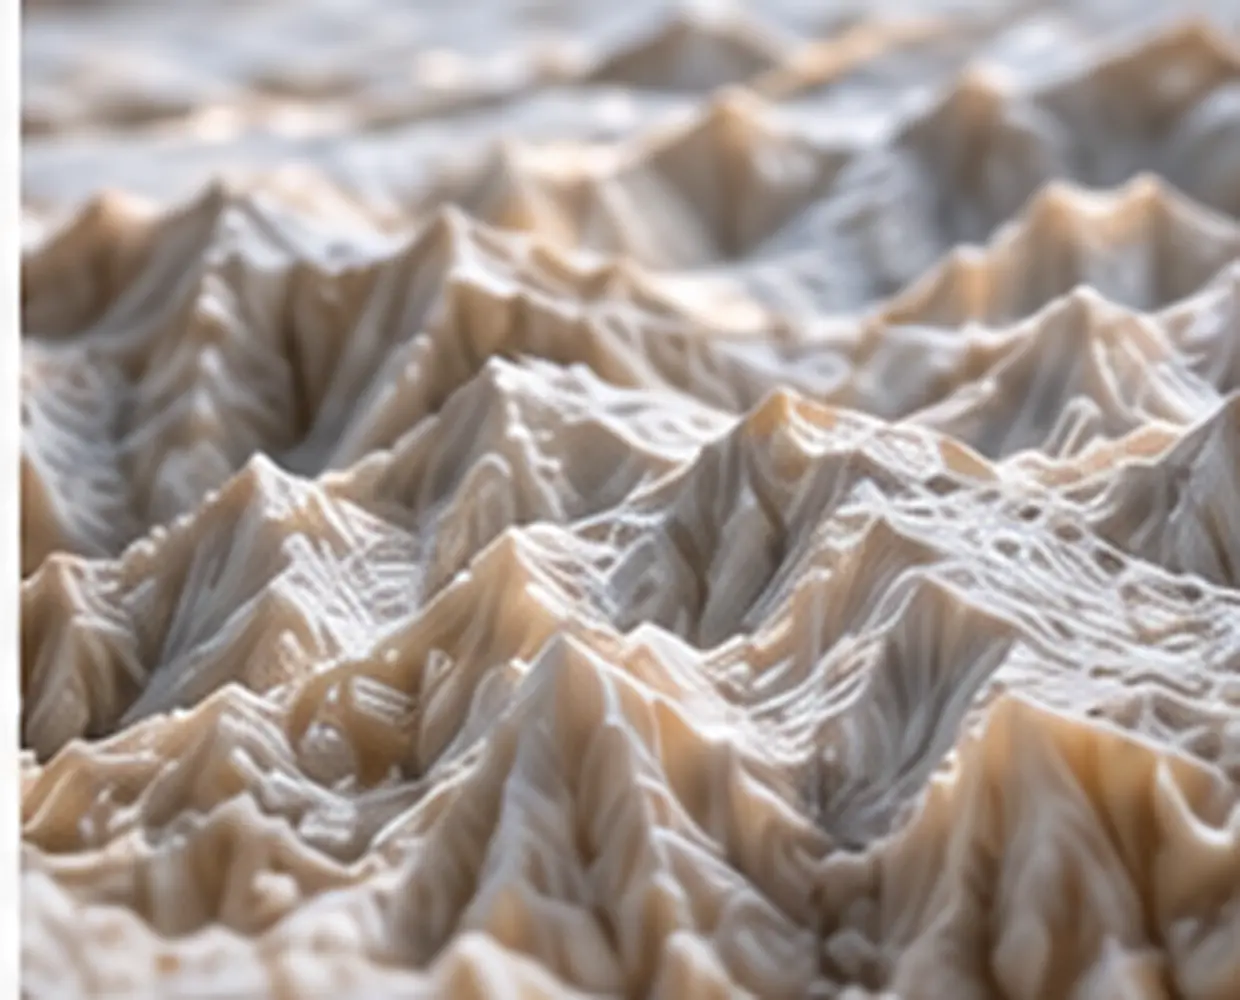
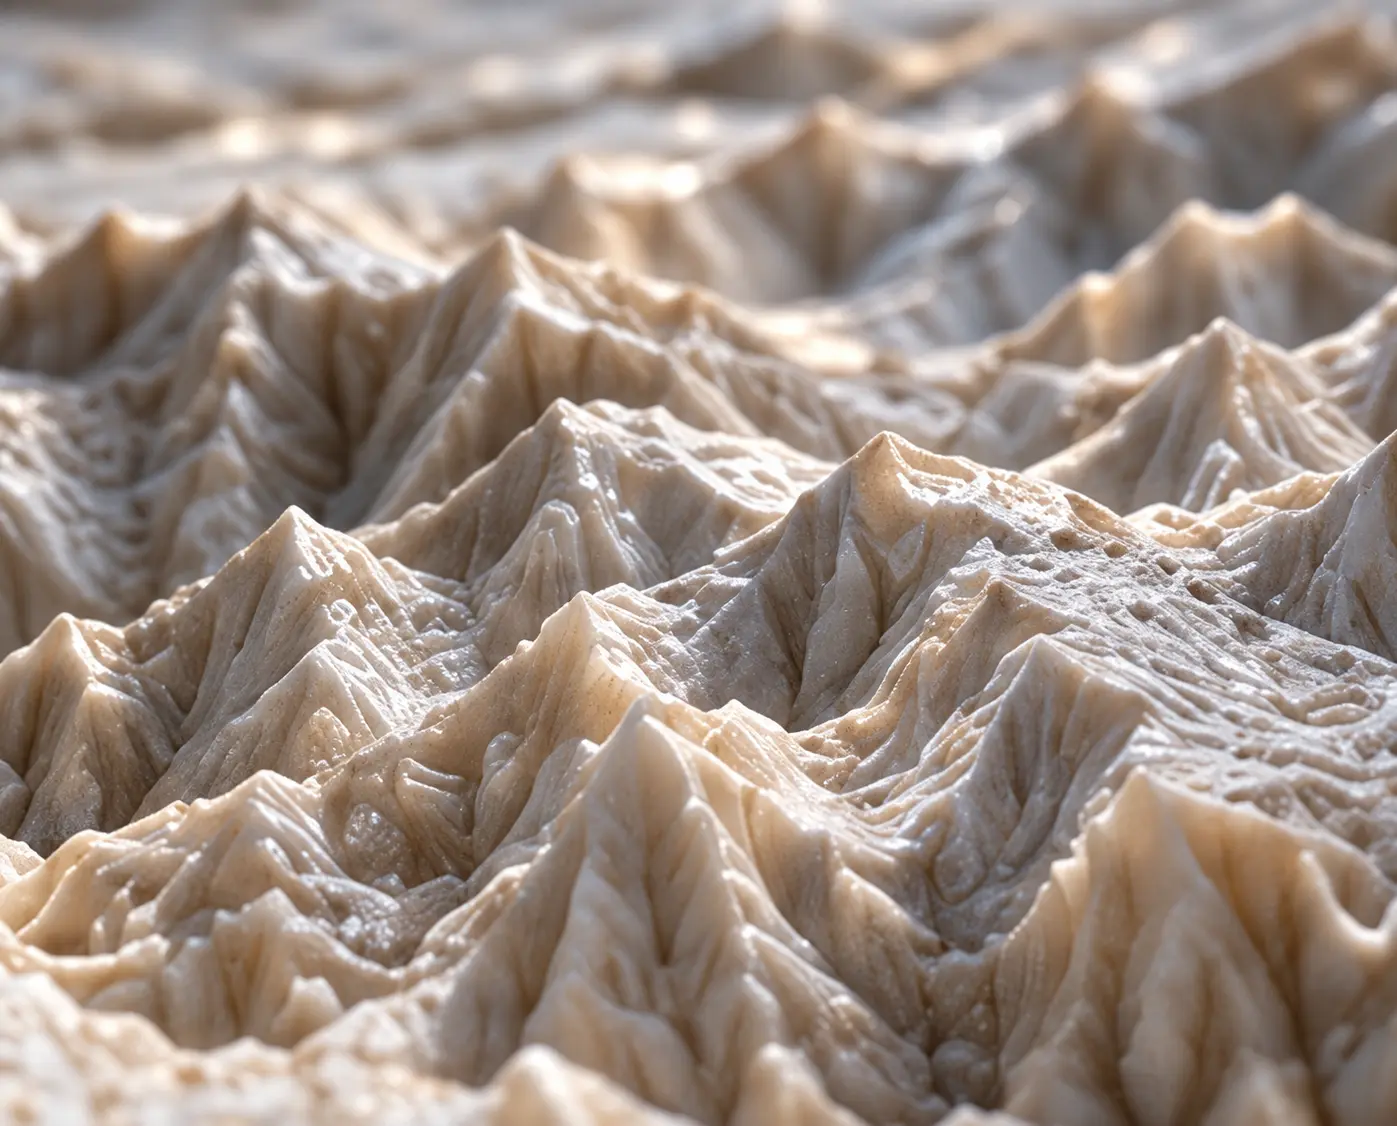
Recréer les visuels stratégiques en HD plein cadre

diff --git a/strategy/index.html b/strategy/index.html
@@ -5,7 +5,7 @@
   <meta name="viewport" content="width=device-width,initial-scale=1">
   <meta name="description" content="Atelier Signature — socle de marque et modèle économique V3.5.">
   <title>Atelier Signature — Stratégie V3.5</title>
-  <link rel="stylesheet" href="styles.css?v=5">
+  <link rel="stylesheet" href="styles.css?v=6">
   <script src="script.js?v=2" defer></script>
 </head>
 <body>
@@ -100,11 +100,11 @@
           <div class="accent-block"><p class="micro">Atelier Signature</p><p>Savoir-faire → Possibilités → Rencontre → Conception → Production → Réalisation</p></div>
         </div>
         <div class="editorial-grid editorial-grid-five" aria-label="Matières et savoir-faire">
-          <figure><img src="assets/editorial/image-01.webp" alt="Bloc d’albâtre suisse brut dans un atelier"><figcaption><b>01</b><span>Matière brute<em>Bloc d’albâtre suisse</em></span></figcaption></figure>
-          <figure><img src="assets/editorial/image-03.webp" alt="Usinage CNC d’un relief minéral"><figcaption><b>02</b><span>Usinage CNC<em>Sculpture du relief</em></span></figcaption></figure>
-          <figure><img src="assets/editorial/image-04.webp" alt="Relief minéral en cours de fabrication"><figcaption><b>03</b><span>Relief en cours<em>Naissance du territoire</em></span></figcaption></figure>
-          <figure><img src="assets/editorial/image-05.webp" alt="Échantillons de pierre, métal et bois"><figcaption><b>04</b><span>Matières complémentaires<em>Pierre, métal et bois</em></span></figcaption></figure>
-          <figure><img src="assets/editorial/image-06.webp" alt="Verre et textile traversés par la lumière"><figcaption><b>05</b><span>Verre et textile<em>Lumière et matière</em></span></figcaption></figure>
+          <figure><img srcset="assets/editorial/image-01-720.webp 720w, assets/editorial/image-01.webp 1397w" sizes="(max-width: 760px) 100vw, 34vw" src="assets/editorial/image-01.webp" alt="Bloc d’albâtre suisse brut dans un atelier"><figcaption><b>01</b><span>Matière brute<em>Bloc d’albâtre suisse</em></span></figcaption></figure>
+          <figure><img srcset="assets/editorial/image-03-720.webp 720w, assets/editorial/image-03.webp 1397w" sizes="(max-width: 760px) 100vw, 34vw" src="assets/editorial/image-03.webp" alt="Usinage CNC d’un relief minéral"><figcaption><b>02</b><span>Usinage CNC<em>Sculpture du relief</em></span></figcaption></figure>
+          <figure><img srcset="assets/editorial/image-04-720.webp 720w, assets/editorial/image-04.webp 1397w" sizes="(max-width: 760px) 100vw, 34vw" src="assets/editorial/image-04.webp" alt="Relief minéral en cours de fabrication"><figcaption><b>03</b><span>Relief en cours<em>Naissance du territoire</em></span></figcaption></figure>
+          <figure><img srcset="assets/editorial/image-05-720.webp 720w, assets/editorial/image-05.webp 1397w" sizes="(max-width: 760px) 100vw, 34vw" src="assets/editorial/image-05.webp" alt="Échantillons de pierre, métal et bois"><figcaption><b>04</b><span>Matières complémentaires<em>Pierre, métal et bois</em></span></figcaption></figure>
+          <figure><img srcset="assets/editorial/image-06-720.webp 720w, assets/editorial/image-06.webp 1397w" sizes="(max-width: 760px) 100vw, 34vw" src="assets/editorial/image-06.webp" alt="Verre et textile traversés par la lumière"><figcaption><b>05</b><span>Verre et textile<em>Lumière et matière</em></span></figcaption></figure>
         </div>
       </article>
 
@@ -127,10 +127,10 @@
         <div class="chapter-copy"><p>Un projet peut commencer par un brief client, une matière, une technique, une opportunité, un artisan ou une intuition. La spécificité AS : le savoir-faire entre assez tôt pour transformer le projet.</p></div>
         <blockquote><span>Le test AS</span>Cet objet aurait-il été différent sans la rencontre avec ce savoir-faire ? Peut-on identifier ce que chaque contributeur a apporté ?</blockquote>
         <div class="editorial-grid editorial-grid-four" aria-label="Méthode de création Atelier Signature">
-          <figure><img src="assets/editorial/image-07.webp" alt="Table de co-conception avec plans et échantillons"><figcaption><b>01</b><span>Co-conception<em>Dialogue et idées</em></span></figcaption></figure>
-          <figure><img src="assets/editorial/image-08.webp" alt="Cartes et échantillons de la Collection 01"><figcaption><b>02</b><span>Collection 01<em>Du territoire à l’objet</em></span></figcaption></figure>
-          <figure><img src="assets/editorial/image-09.webp" alt="Prototype de table en pierre en cours de mise au point"><figcaption><b>03</b><span>Prototype<em>Ajustements et mise au point</em></span></figcaption></figure>
-          <figure><img src="assets/editorial/image-10.webp" alt="Table Atelier Signature finalisée"><figcaption><b>04</b><span>Pièce finale<em>Table AS-001</em></span></figcaption></figure>
+          <figure><img srcset="assets/editorial/image-07-720.webp 720w, assets/editorial/image-07.webp 1397w" sizes="(max-width: 760px) 100vw, 34vw" src="assets/editorial/image-07.webp" alt="Table de co-conception avec plans et échantillons"><figcaption><b>01</b><span>Co-conception<em>Dialogue et idées</em></span></figcaption></figure>
+          <figure><img srcset="assets/editorial/image-08-720.webp 720w, assets/editorial/image-08.webp 1397w" sizes="(max-width: 760px) 100vw, 34vw" src="assets/editorial/image-08.webp" alt="Cartes et échantillons de la Collection 01"><figcaption><b>02</b><span>Collection 01<em>Du territoire à l’objet</em></span></figcaption></figure>
+          <figure><img srcset="assets/editorial/image-09-720.webp 720w, assets/editorial/image-09.webp 1397w" sizes="(max-width: 760px) 100vw, 34vw" src="assets/editorial/image-09.webp" alt="Prototype de table en pierre en cours de mise au point"><figcaption><b>03</b><span>Prototype<em>Ajustements et mise au point</em></span></figcaption></figure>
+          <figure><img srcset="assets/editorial/image-10-720.webp 720w, assets/editorial/image-10.webp 1397w" sizes="(max-width: 760px) 100vw, 34vw" src="assets/editorial/image-10.webp" alt="Table Atelier Signature finalisée"><figcaption><b>04</b><span>Pièce finale<em>Table AS-001</em></span></figcaption></figure>
         </div>
       </article>
 
@@ -158,10 +158,10 @@
         <header><span>07</span><p>Échelle</p><h3>De l’objet à l’espace.</h3></header>
         <div class="scale-list"><span>Objet</span><span>Mobilier</span><span>Scénographie</span><span>Espaces commerciaux</span><span>Hôtellerie</span><span>Environnement complet</span></div>
         <div class="editorial-grid editorial-grid-four" aria-label="Échelles d’intervention Atelier Signature">
-          <figure><img src="assets/editorial/image-19.webp" alt="Table Atelier Signature dans un intérieur"><figcaption><b>01</b><span>Objet en situation<em>Élégance au quotidien</em></span></figcaption></figure>
-          <figure><img src="assets/editorial/image-20.webp" alt="Présentation scénographique d’une pièce Atelier Signature"><figcaption><b>02</b><span>Scénographie<em>Mise en valeur</em></span></figcaption></figure>
-          <figure><img src="assets/editorial/image-21.webp" alt="Table Atelier Signature dans un espace hôtelier"><figcaption><b>03</b><span>Hôtellerie<em>Expérience d’exception</em></span></figcaption></figure>
-          <figure><img src="assets/editorial/image-23.webp" alt="Visualisation de la Maison Atelier Signature"><figcaption><b>04</b><span>Maison AS<em>Un lieu, une communauté</em></span></figcaption></figure>
+          <figure><img srcset="assets/editorial/image-19-720.webp 720w, assets/editorial/image-19.webp 1397w" sizes="(max-width: 760px) 100vw, 34vw" src="assets/editorial/image-19.webp" alt="Table Atelier Signature dans un intérieur"><figcaption><b>01</b><span>Objet en situation<em>Élégance au quotidien</em></span></figcaption></figure>
+          <figure><img srcset="assets/editorial/image-20-720.webp 720w, assets/editorial/image-20.webp 1397w" sizes="(max-width: 760px) 100vw, 34vw" src="assets/editorial/image-20.webp" alt="Présentation scénographique d’une pièce Atelier Signature"><figcaption><b>02</b><span>Scénographie<em>Mise en valeur</em></span></figcaption></figure>
+          <figure><img srcset="assets/editorial/image-21-720.webp 720w, assets/editorial/image-21.webp 1397w" sizes="(max-width: 760px) 100vw, 34vw" src="assets/editorial/image-21.webp" alt="Table Atelier Signature dans un espace hôtelier"><figcaption><b>03</b><span>Hôtellerie<em>Expérience d’exception</em></span></figcaption></figure>
+          <figure><img srcset="assets/editorial/image-23-720.webp 720w, assets/editorial/image-23.webp 1397w" sizes="(max-width: 760px) 100vw, 34vw" src="assets/editorial/image-23.webp" alt="Visualisation de la Maison Atelier Signature"><figcaption><b>04</b><span>Maison AS<em>Un lieu, une communauté</em></span></figcaption></figure>
         </div>
         <div class="north-star"><p class="micro">Cap à long terme</p><p>La Maison Atelier Signature — un lieu manifeste et un espace d’exposition réel à l’échelle 1:1.</p><span>Apprendre, formaliser, fiabiliser, puis augmenter les volumes.</span></div>
       </article>
@@ -206,9 +206,9 @@
         <div class="criteria"><p><b>01</b>Excellence</p><p><b>02</b>Fiabilité</p><p><b>03</b>Dialogue</p><p><b>04</b>Transmission</p></div>
         <div class="capability"><div><p class="micro">Capacités</p><p>Transformer · Couper · Usiner · Sculpter · Graver · Polir · Couler · Former · Tisser · Assembler · Finir · Installer</p></div><strong>AS</strong><div><p class="micro">Matières</p><p>Pierre · Bois · Métal · Verre · Textile</p></div></div>
         <div class="editorial-grid editorial-grid-three" aria-label="Réseau et gestes artisanaux">
-          <figure><img src="assets/editorial/image-14.webp" alt="Artisan travaillant manuellement un relief"><figcaption><b>01</b><span>Geste artisanal<em>Savoir-faire en action</em></span></figcaption></figure>
-          <figure><img src="assets/editorial/image-16.webp" alt="Artisans réunis autour d’une pièce en atelier"><figcaption><b>02</b><span>Nos artisans<em>Un réseau d’experts</em></span></figcaption></figure>
-          <figure><img src="assets/editorial/image-17.webp" alt="Cartographie du réseau suisse Atelier Signature"><figcaption><b>03</b><span>Cartographie<em>Un réseau en Suisse</em></span></figcaption></figure>
+          <figure><img srcset="assets/editorial/image-14-720.webp 720w, assets/editorial/image-14.webp 1397w" sizes="(max-width: 760px) 100vw, 34vw" src="assets/editorial/image-14.webp" alt="Artisan travaillant manuellement un relief"><figcaption><b>01</b><span>Geste artisanal<em>Savoir-faire en action</em></span></figcaption></figure>
+          <figure><img srcset="assets/editorial/image-16-720.webp 720w, assets/editorial/image-16.webp 1397w" sizes="(max-width: 760px) 100vw, 34vw" src="assets/editorial/image-16.webp" alt="Artisans réunis autour d’une pièce en atelier"><figcaption><b>02</b><span>Nos artisans<em>Un réseau d’experts</em></span></figcaption></figure>
+          <figure><img srcset="assets/editorial/image-17-720.webp 720w, assets/editorial/image-17.webp 1397w" sizes="(max-width: 760px) 100vw, 34vw" src="assets/editorial/image-17.webp" alt="Cartographie du réseau suisse Atelier Signature"><figcaption><b>03</b><span>Cartographie<em>Un réseau en Suisse</em></span></figcaption></figure>
         </div>
         <div class="status"><b>● Liberté de l’artisan</b><p>Les artisans restent libres de travailler avec d’autres clients, studios ou artisans.</p></div>
       </article>
@@ -217,8 +217,8 @@
         <header><span>12</span><p>Reconnaissance</p><h3>Une pièce. Plusieurs signatures.</h3></header>
         <div class="chapter-copy lead"><p>AS signe le projet. Ses contributeurs signent leur savoir-faire. Chaque contribution significative a vocation à être nommée, créditée et, lorsque pertinent, matérialisée par une signature, un poinçon, une plaque, un certificat ou une documentation.</p></div>
         <div class="editorial-grid editorial-grid-two" aria-label="Système de signature Atelier Signature">
-          <figure><img src="assets/editorial/image-15.webp" alt="Poinçon Atelier Signature appliqué sur la pierre"><figcaption><b>01</b><span>Signature<em>Poinçon et numéro de série</em></span></figcaption></figure>
-          <figure><img src="assets/editorial/image-18.webp" alt="Détail de marque gravé sur une pièce Atelier Signature"><figcaption><b>02</b><span>Détail de marque<em>Identité discrète</em></span></figcaption></figure>
+          <figure><img srcset="assets/editorial/image-15-720.webp 720w, assets/editorial/image-15.webp 1397w" sizes="(max-width: 760px) 100vw, 34vw" src="assets/editorial/image-15.webp" alt="Poinçon Atelier Signature appliqué sur la pierre"><figcaption><b>01</b><span>Signature<em>Poinçon et numéro de série</em></span></figcaption></figure>
+          <figure><img srcset="assets/editorial/image-18-720.webp 720w, assets/editorial/image-18.webp 1397w" sizes="(max-width: 760px) 100vw, 34vw" src="assets/editorial/image-18.webp" alt="Détail de marque gravé sur une pièce Atelier Signature"><figcaption><b>02</b><span>Détail de marque<em>Identité discrète</em></span></figcaption></figure>
         </div>
         <div class="status-grid"><p><b>● Validé</b>Principe de reconnaissance</p><p><b>□ À définir</b>Modalités exactes</p><p><b>△ À tester</b>Signature, poinçon ou certificat avec Collection 01</p></div>
       </article>
@@ -237,9 +237,9 @@
           <li><b>01</b>Demande</li><li><b>02</b>Échange</li><li><b>03</b>Analyse</li><li><b>04</b>Conception</li><li><b>05</b>Proposition</li><li><b>06</b>Validation</li><li><b>07</b>Production</li><li><b>08</b>Contrôle</li><li><b>09</b>Installation</li><li><b>10</b>Livraison</li><li><b>11</b>SAV</li>
         </ol>
         <div class="editorial-grid editorial-grid-three" aria-label="Sélection, contrôle et installation">
-          <figure><img src="assets/editorial/image-02.webp" alt="Sélection et contrôle visuel de la pierre"><figcaption><b>01</b><span>Sélection<em>Qualité et veinage</em></span></figcaption></figure>
-          <figure><img src="assets/editorial/image-11.webp" alt="Contrôle dimensionnel d’une pièce en pierre"><figcaption><b>02</b><span>Contrôle qualité<em>Finition et précision</em></span></figcaption></figure>
-          <figure><img src="assets/editorial/image-12.webp" alt="Installation d’une table dans son environnement final"><figcaption><b>03</b><span>Installation<em>Mise en espace</em></span></figcaption></figure>
+          <figure><img srcset="assets/editorial/image-02-720.webp 720w, assets/editorial/image-02.webp 1397w" sizes="(max-width: 760px) 100vw, 34vw" src="assets/editorial/image-02.webp" alt="Sélection et contrôle visuel de la pierre"><figcaption><b>01</b><span>Sélection<em>Qualité et veinage</em></span></figcaption></figure>
+          <figure><img srcset="assets/editorial/image-11-720.webp 720w, assets/editorial/image-11.webp 1397w" sizes="(max-width: 760px) 100vw, 34vw" src="assets/editorial/image-11.webp" alt="Contrôle dimensionnel d’une pièce en pierre"><figcaption><b>02</b><span>Contrôle qualité<em>Finition et précision</em></span></figcaption></figure>
+          <figure><img srcset="assets/editorial/image-12-720.webp 720w, assets/editorial/image-12.webp 1397w" sizes="(max-width: 760px) 100vw, 34vw" src="assets/editorial/image-12.webp" alt="Installation d’une table dans son environnement final"><figcaption><b>03</b><span>Installation<em>Mise en espace</em></span></figcaption></figure>
         </div>
       </article>
 
@@ -248,7 +248,7 @@
         <div class="pillar-grid"><div><span>01</span><h4>Créer et produire</h4><p>Objets, mobilier, scénographie, espaces commerciaux, hôtellerie et projets sur mesure.</p></div><div><span>02</span><h4>Transmettre et former</h4><p>Apprentissage, perfectionnement et découverte de techniques artisanales pour particuliers et professionnels.</p></div></div>
         <div class="chapter-copy"><p>Une deuxième source de revenus potentielle et une dimension institutionnelle : préservation, transmission intergénérationnelle, insertion, valorisation des métiers et futurs financements publics.</p></div>
         <div class="editorial-grid editorial-grid-single" aria-label="Transmission des savoir-faire">
-          <figure><img src="assets/editorial/image-22.webp" alt="Transmission d’un échantillon de matière entre deux générations"><figcaption><b>01</b><span>Transmission<em>Des savoir-faire pour demain</em></span></figcaption></figure>
+          <figure><img srcset="assets/editorial/image-22-720.webp 720w, assets/editorial/image-22.webp 1397w" sizes="(max-width: 760px) 100vw, 34vw" src="assets/editorial/image-22.webp" alt="Transmission d’un échantillon de matière entre deux générations"><figcaption><b>01</b><span>Transmission<em>Des savoir-faire pour demain</em></span></figcaption></figure>
         </div>
       </article>
 

diff --git a/strategy/styles.css b/strategy/styles.css
@@ -22,7 +22,7 @@ blockquote{margin:5rem 0 0 33%;padding:2rem;border-top:1px solid currentColor;bo
 .status-grid,.scenario-grid{display:grid;grid-template-columns:repeat(3,1fr);margin:5rem 0 0 16.5%;border-top:1px solid #aaa79f}.status-grid p,.scenario-grid p{padding:1.2rem;border-bottom:1px solid #aaa79f;font-size:.82rem;line-height:1.5}.status-grid b,.scenario-grid b{display:block;margin-bottom:2rem;font:400 .6rem var(--mono);text-transform:uppercase;color:#77736b}
 .money-flow{margin-left:16.5%;min-height:17rem;display:grid;grid-template-columns:1fr auto 1.4fr auto 1.5fr;gap:1rem;align-items:center;text-align:center;border-top:1px solid #aaa79f;border-bottom:1px solid #aaa79f}.money-flow strong{font-size:clamp(1.8rem,3.3vw,3.5rem);font-weight:400;line-height:.9}.money-flow span{font:.62rem/1.5 var(--mono);text-transform:uppercase}.money-flow b{font-weight:400;color:var(--accent)}
 .pillar-grid h4,.phase-grid h4{margin-top:auto}.legal-notes{margin:5rem 0 0 33%;border-top:1px solid #aaa79f}.legal-notes p{display:grid;grid-template-columns:1fr 3fr;gap:1rem;padding:1rem 0;border-bottom:1px solid #aaa79f;font-size:.82rem;line-height:1.5}.legal-notes b{font:400 .6rem var(--mono);text-transform:uppercase}
-.editorial-grid{display:grid;margin:5rem 0 0 16.5%;overflow:hidden}.editorial-grid-five{grid-template-columns:repeat(5,1fr)}.editorial-grid-four{grid-template-columns:repeat(4,1fr)}.editorial-grid-three{grid-template-columns:repeat(3,1fr)}.editorial-grid-two{grid-template-columns:repeat(2,1fr)}.editorial-grid-single{grid-template-columns:minmax(0,1fr);max-width:50%;margin-left:33%}.editorial-grid figure{position:relative;isolation:isolate;margin:0;min-width:0;aspect-ratio:1.24/1;overflow:hidden}.editorial-grid figure:after{content:"";position:absolute;z-index:1;inset:35% 0 0;background:linear-gradient(180deg,transparent,rgba(9,9,9,.72));pointer-events:none}.editorial-grid img{position:absolute;inset:0;display:block;width:100%;height:100%;object-fit:cover}.editorial-grid figcaption{position:absolute;z-index:2;inset:auto 0 0;padding:1rem;display:grid;grid-template-columns:1.7rem 1fr;gap:.45rem;color:#fff;font-size:.72rem;line-height:1.25}.editorial-grid figcaption b{font:400 .55rem var(--mono);color:rgba(255,255,255,.68)}.editorial-grid figcaption span{display:flex;flex-direction:column;gap:.28rem;text-transform:uppercase}.editorial-grid figcaption em{font-style:normal;text-transform:none;color:rgba(255,255,255,.72);font-size:.64rem}
+.editorial-grid{display:grid;gap:0;margin:5rem 0 0 16.5%;padding:0;border:0;background:transparent;overflow:hidden}.editorial-grid-five{grid-template-columns:repeat(5,1fr)}.editorial-grid-four{grid-template-columns:repeat(4,1fr)}.editorial-grid-three{grid-template-columns:repeat(3,1fr)}.editorial-grid-two{grid-template-columns:repeat(2,1fr)}.editorial-grid-single{grid-template-columns:minmax(0,1fr);max-width:50%;margin-left:33%}.editorial-grid figure{position:relative;isolation:isolate;margin:0;padding:0;border:0;min-width:0;aspect-ratio:1.24/1;overflow:hidden}.editorial-grid figure:after{content:"";position:absolute;z-index:1;inset:35% 0 0;background:linear-gradient(180deg,transparent,rgba(9,9,9,.72));pointer-events:none}.editorial-grid img{position:absolute;inset:0;display:block;width:100%;height:100%;margin:0;padding:0;border:0;object-fit:cover}.editorial-grid figcaption{position:absolute;z-index:2;inset:auto 0 0;padding:1rem;display:grid;grid-template-columns:1.7rem 1fr;gap:.45rem;color:#fff;font-size:.72rem;line-height:1.25}.editorial-grid figcaption b{font:400 .55rem var(--mono);color:rgba(255,255,255,.68)}.editorial-grid figcaption span{display:flex;flex-direction:column;gap:.28rem;text-transform:uppercase}.editorial-grid figcaption em{font-style:normal;text-transform:none;color:rgba(255,255,255,.72);font-size:.64rem}
 .part-dark .label,.part-dark .micro,.part-dark .chapter>header>p{color:#777}.part-dark .chapter>header>span{color:#555}.risk-table{margin-left:16.5%;border-top:1px solid #444}.risk-table p{display:grid;grid-template-columns:1fr 2fr 2fr;gap:var(--gutter);padding:1rem 0;border-bottom:1px solid #444;font-size:.83rem}.risk-table b{font:400 .62rem var(--mono);text-transform:uppercase;color:#999}.risk-table em{font-style:normal;color:#8c8c8c}.gates{list-style:none;padding:0;margin-left:16.5%;border-top:1px solid #444}.gates li{display:grid;grid-template-columns:1fr 2fr 3fr;gap:var(--gutter);padding:1.25rem 0;border-bottom:1px solid #444}.gates span{font:.6rem var(--mono);text-transform:uppercase;color:#777}.gates b{font-weight:400;font-size:clamp(1.3rem,2vw,2rem)}.gates p{font-size:.82rem;line-height:1.5;color:#aaa}
 .decision-board{display:grid;grid-template-columns:1fr 1fr;margin-left:16.5%}.decision-board>div{min-height:22rem;padding:1.5rem;border:1px solid #444}.decision-board>div:nth-child(even){border-left:0}.decision-board>div:nth-child(n+3){border-top:0}.decision-board h4{font:400 .65rem var(--mono);text-transform:uppercase;color:#999;margin-bottom:5rem}.decision-board p{font-size:.85rem;line-height:1.6;color:#aaa}.not-list{margin:7rem 0 0 33%;padding:2rem;background:var(--accent);color:#f3eee8}.not-list .micro{color:rgba(255,255,255,.55)}.not-list>p:last-child{font-size:clamp(1.4rem,2.5vw,2.6rem);line-height:1.18;letter-spacing:-.025em}
 .roadmap{list-style:none;padding:0;margin-left:16.5%;border-top:1px solid #444}.roadmap li{display:grid;grid-template-columns:4rem 2fr 3fr;gap:var(--gutter);align-items:baseline;padding:1.3rem 0;border-bottom:1px solid #444}.roadmap b{font:400 .6rem var(--mono);color:#777}.roadmap strong{font-size:clamp(1.35rem,2.3vw,2.3rem);font-weight:400}.roadmap span{font-size:.82rem;line-height:1.5;color:#999}
